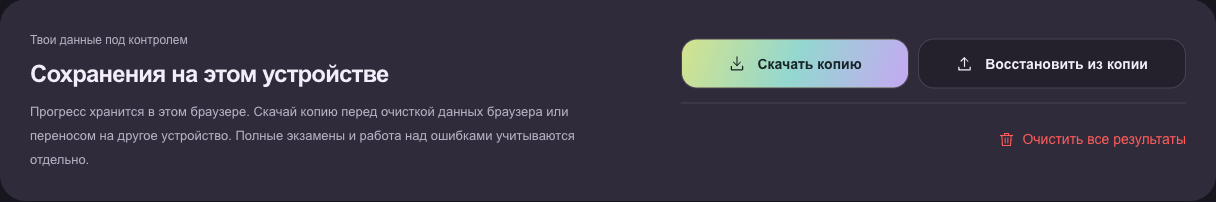
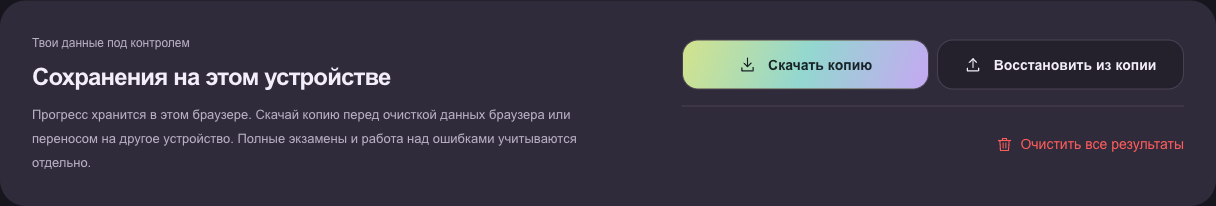
fix(history): balance responsive storage actions
- Equalize backup action widths on tablet and desktop
- Align spacing across the panel hierarchy
- Refresh light and dark responsive screenshots

diff --git a/src/styles.css b/src/styles.css
@@ -8072,10 +8072,14 @@ input[type='search']::-webkit-search-cancel-button:active {
   align-items: stretch;
   justify-content: stretch;
 }
+.history-page .data-panel {
+  gap: 48px;
+  padding: 32px;
+}
 .history-page .data-backup-actions {
   display: grid;
-  grid-template-columns: minmax(0, 0.92fr) minmax(0, 1.08fr);
-  gap: 9px;
+  grid-template-columns: repeat(2, minmax(0, 1fr));
+  gap: 8px;
   width: 100%;
   max-width: 540px;
   justify-self: end;
@@ -8091,8 +8095,8 @@ input[type='search']::-webkit-search-cancel-button:active {
 .history-page .data-clear-actions {
   display: flex;
   justify-content: flex-end;
-  margin-top: 14px;
-  padding-top: 14px;
+  margin-top: 16px;
+  padding-top: 16px;
   border-top: 1px solid var(--line);
 }
 html:not([data-theme='dark']) .history-page .data-clear-actions {
@@ -8106,13 +8110,19 @@ html:not([data-theme='dark']) .history-page .data-clear-actions {
 @media (max-width: 1050px) {
   .history-page .data-panel {
     grid-template-columns: minmax(0, 1fr);
-    gap: 24px;
+    gap: 16px;
+  }
+  .history-page .data-backup-actions {
+    max-width: none;
+    justify-self: stretch;
   }
 }
-@media (max-width: 570px) {
+@media (max-width: 620px) {
+  .history-page .data-panel {
+    padding: 24px;
+  }
   .history-page .data-backup-actions {
     grid-template-columns: minmax(0, 1fr);
-    max-width: none;
   }
 }
 @media (prefers-reduced-motion: reduce) {
